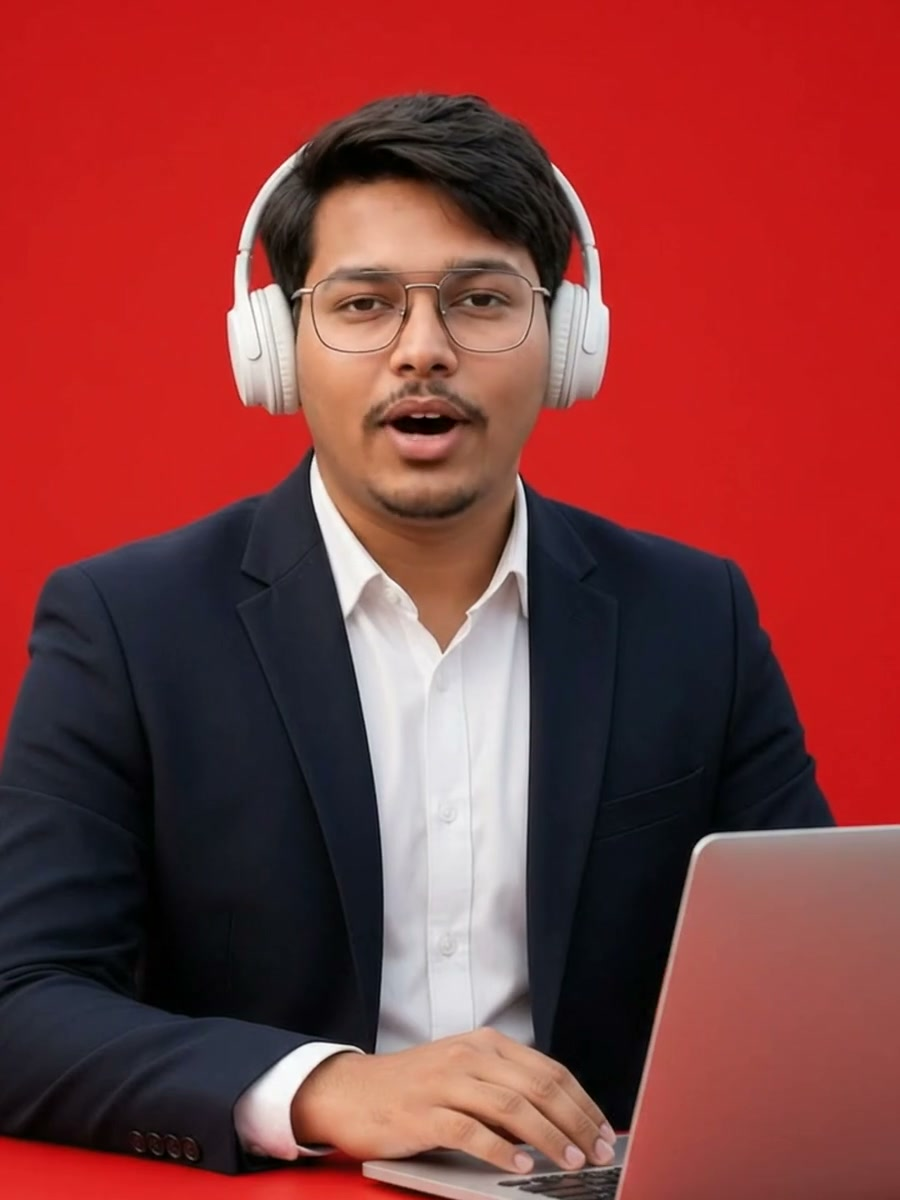
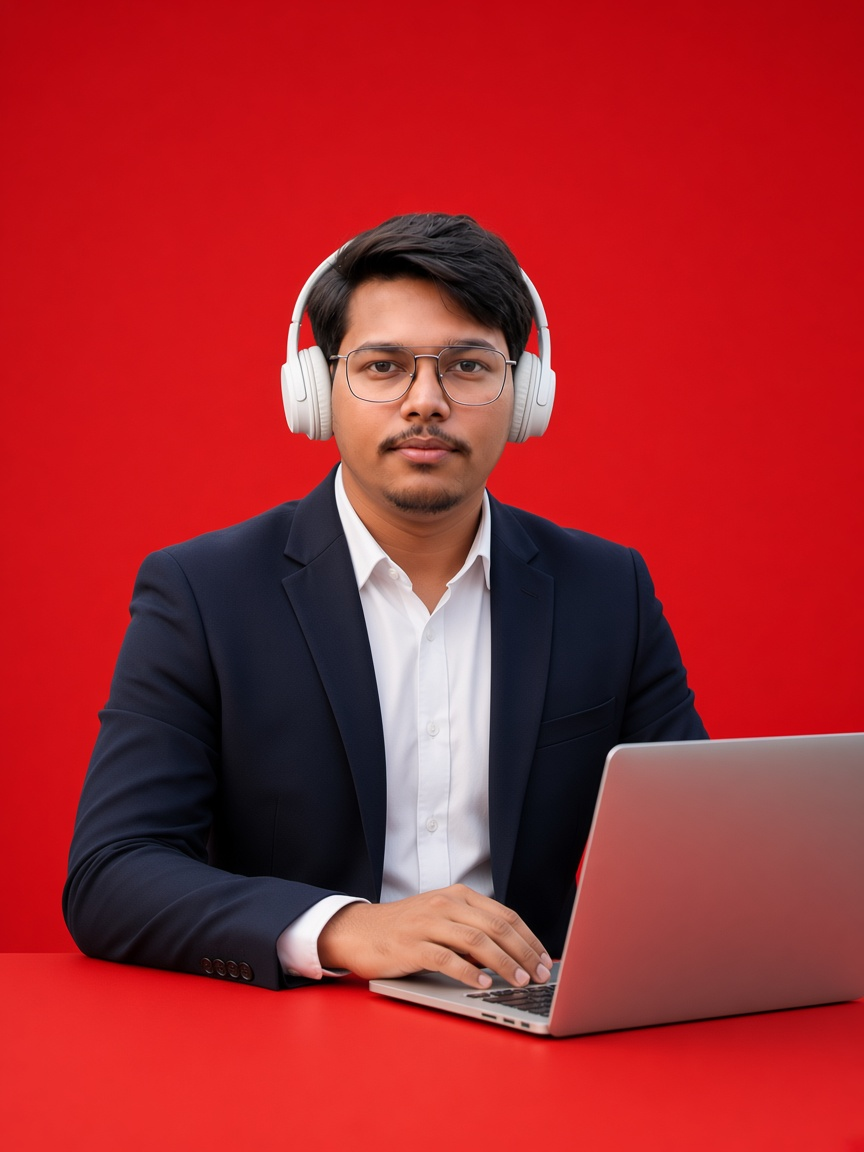
Restore previous clean portrait on ID card and hero poster.

diff --git a/src/data.js b/src/data.js
@@ -13,8 +13,8 @@ export const profile = {
   github: "https://github.com/SurajRawani1919",
   instagram: "https://www.instagram.com/suraj_singh1919/",
   photo: import.meta.env.BASE_URL + "photo.png",
-  heroPhoto: import.meta.env.BASE_URL + "media/hero-portrait.jpg",
-  heroVideo: import.meta.env.BASE_URL + "media/hero-intro.mp4?v=15",
+  heroPhoto: import.meta.env.BASE_URL + "media/hero-portrait.jpg?v=16",
+  heroVideo: import.meta.env.BASE_URL + "media/hero-intro.mp4?v=16",
   resume: import.meta.env.BASE_URL + "Suraj_Kumar_Rawani_Resume.pdf",
   // Free key from https://web3forms.com (tied to profile.email)
   web3formsAccessKey: "",
